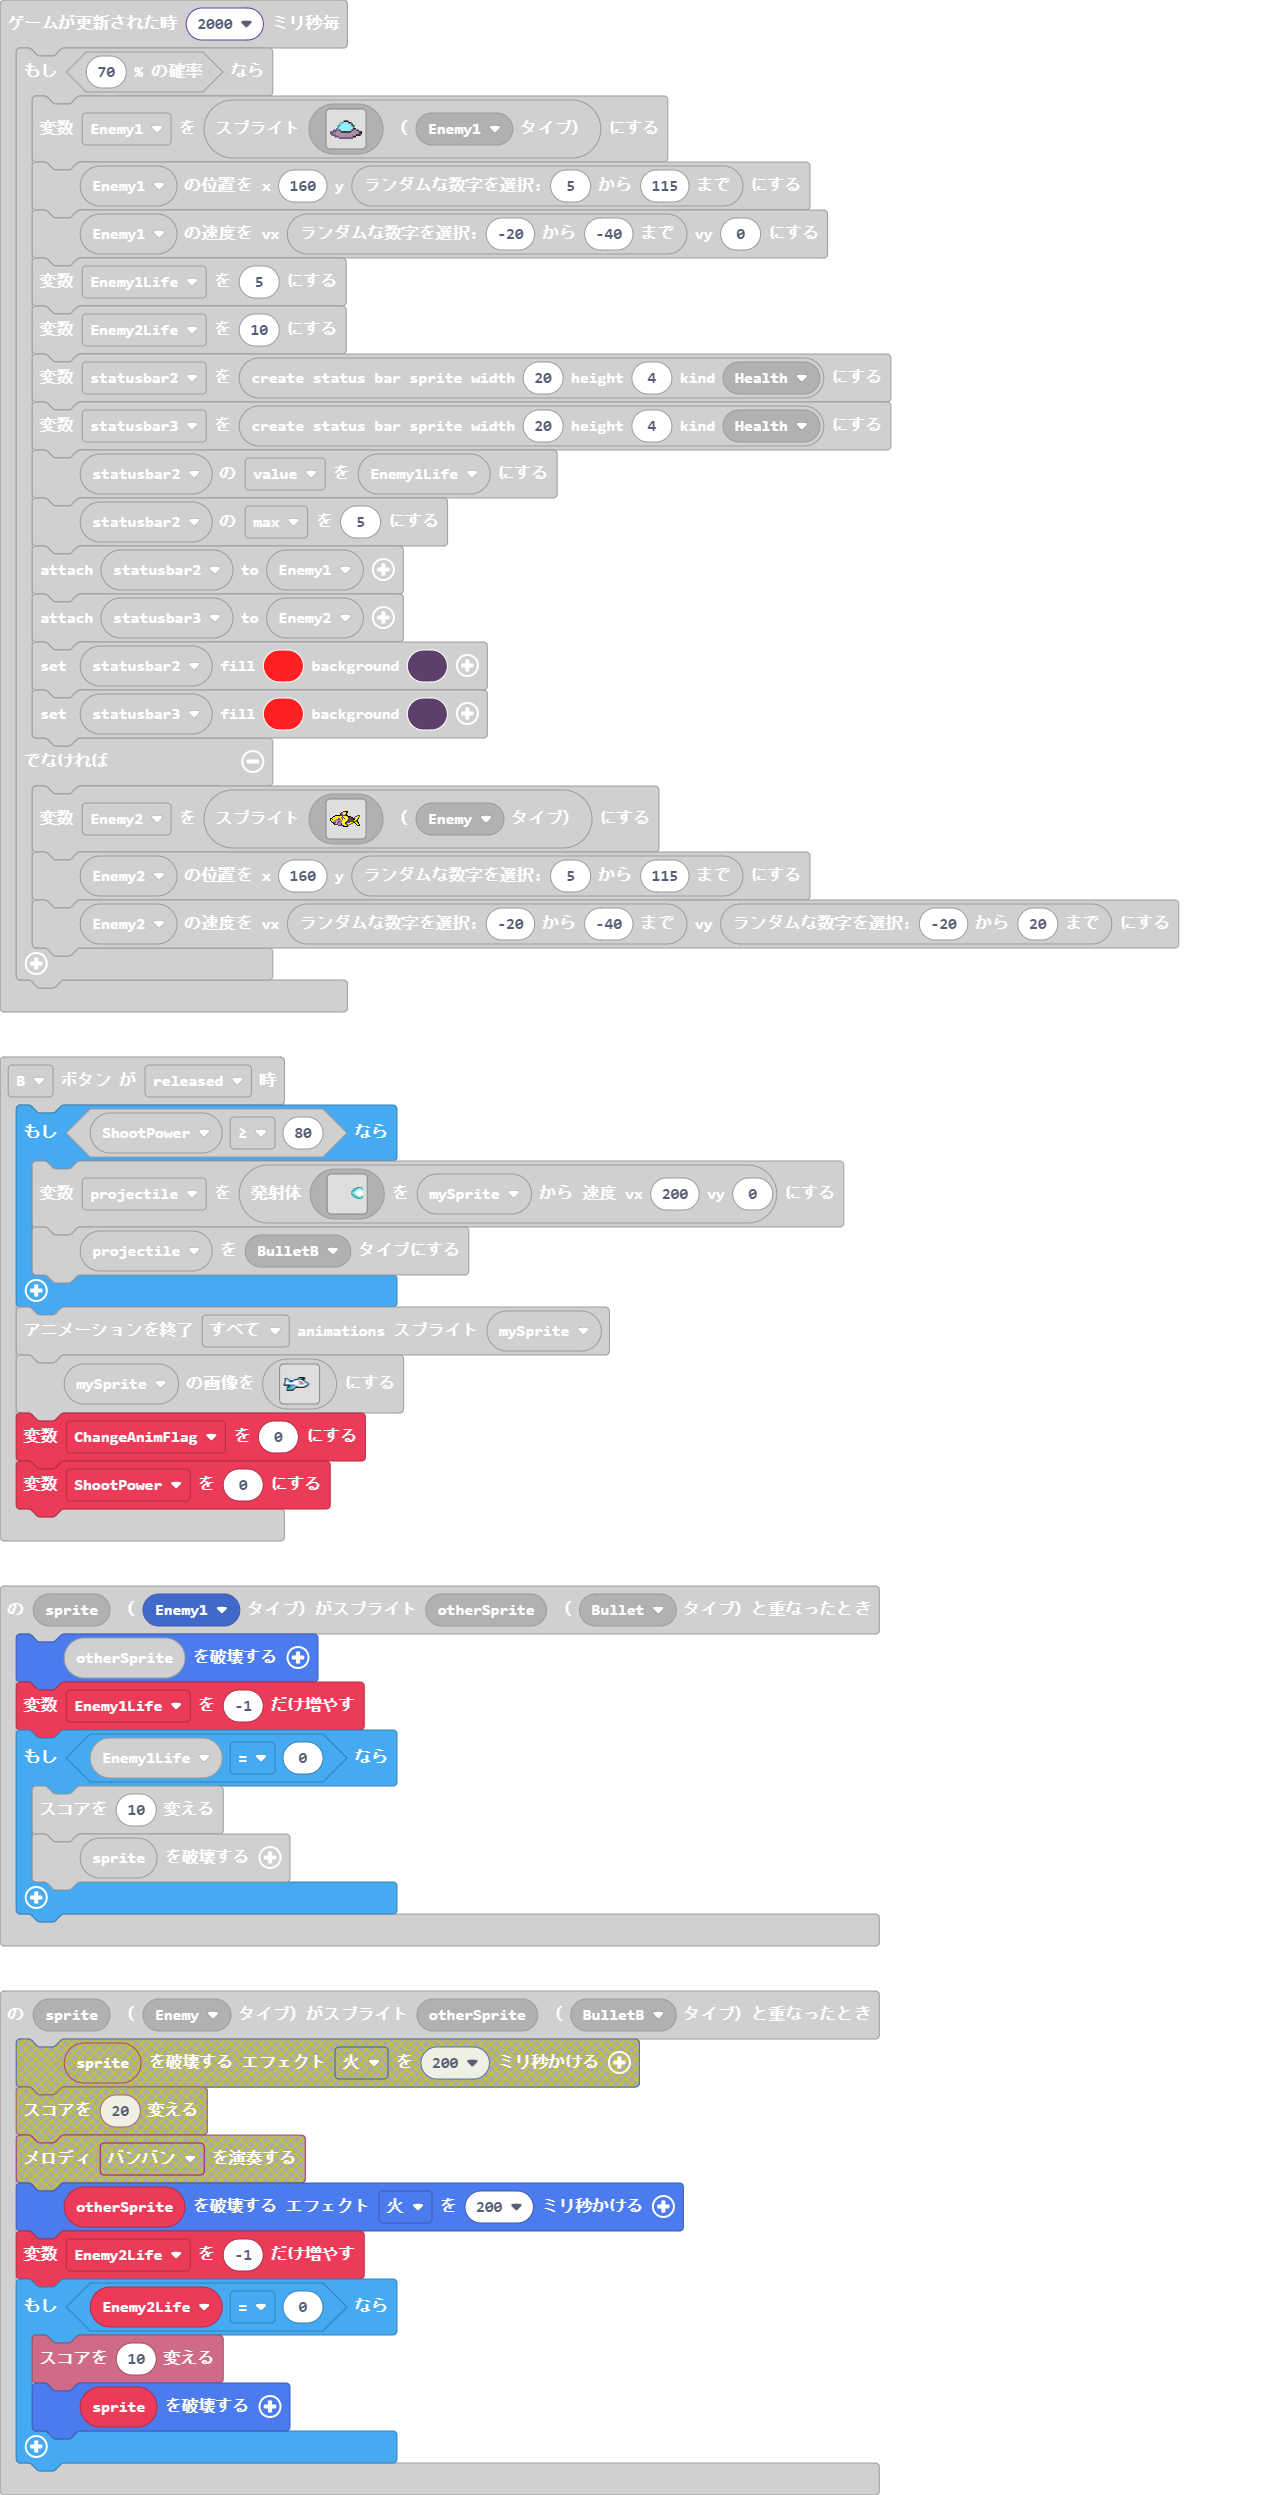
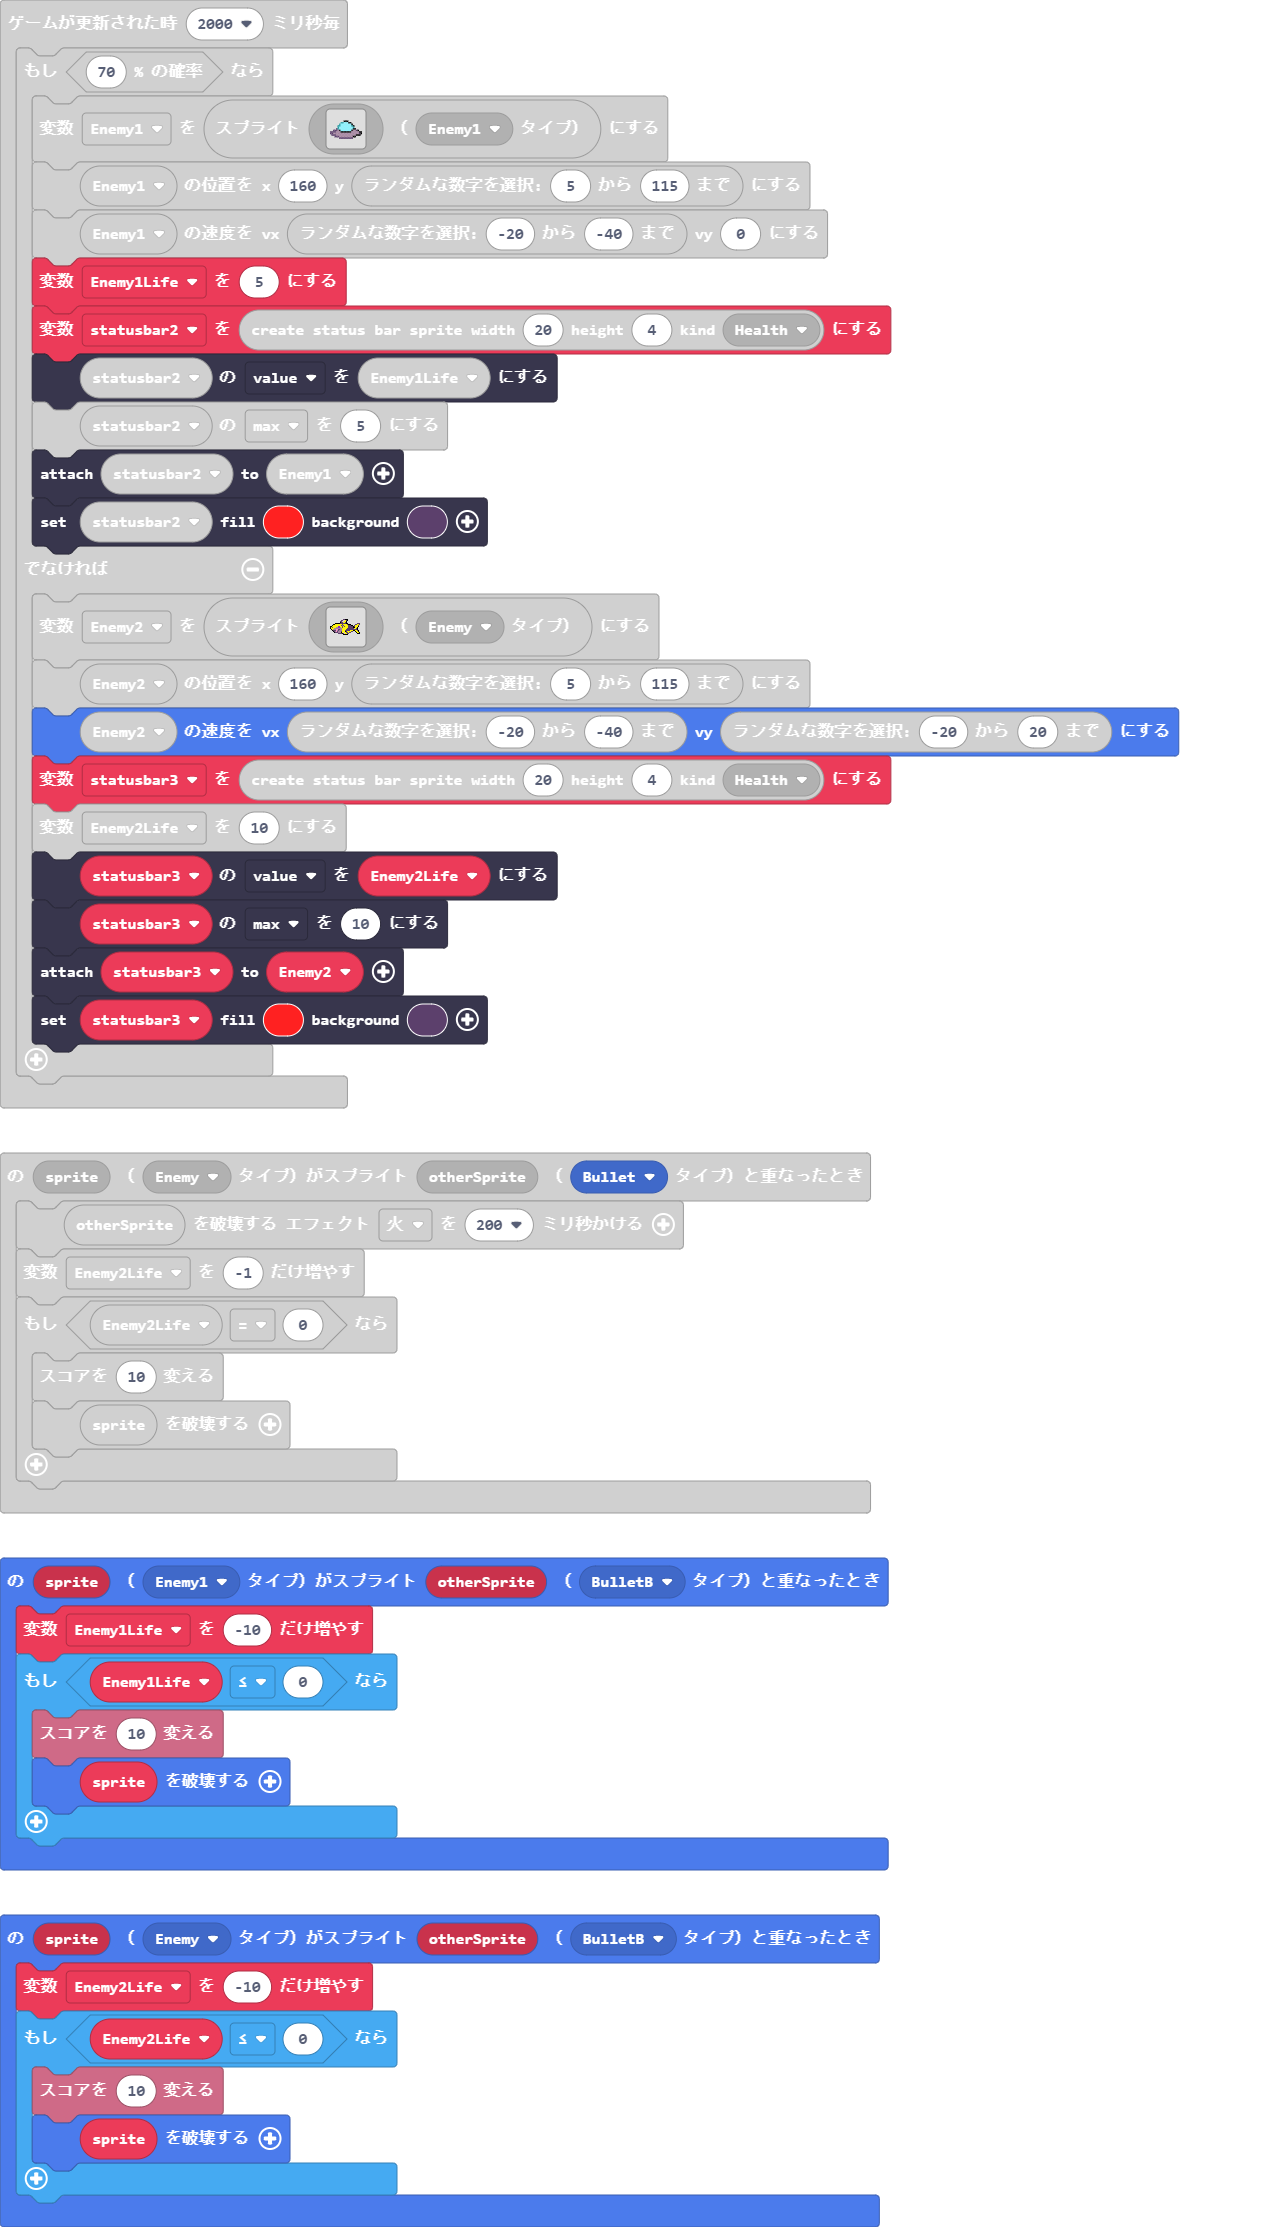
更新 main.blocks, main.ts

diff --git a/main.ts b/main.ts
@@ -3,10 +3,24 @@ namespace SpriteKind {
     export const BulletB = SpriteKind.create()
     export const Enemy1 = SpriteKind.create()
 }
-sprites.onOverlap(SpriteKind.Enemy, SpriteKind.BulletB, function (sprite, otherSprite) {
+sprites.onOverlap(SpriteKind.Enemy, SpriteKind.Bullet, function (sprite, otherSprite) {
     otherSprite.destroy()
     Enemy2Life += -1
     if (Enemy2Life == 0) {
+        info.changeScoreBy(10)
+        sprite.destroy()
+    }
+})
+sprites.onOverlap(SpriteKind.Enemy1, SpriteKind.BulletB, function (sprite, otherSprite) {
+    Enemy1Life += -10
+    if (Enemy1Life <= 0) {
+        info.changeScoreBy(10)
+        sprite.destroy()
+    }
+})
+sprites.onOverlap(SpriteKind.Enemy, SpriteKind.BulletB, function (sprite, otherSprite) {
+    Enemy2Life += -10
+    if (Enemy2Life <= 0) {
         info.changeScoreBy(10)
         sprite.destroy()
     }
@@ -63,13 +77,13 @@ sprites.onOverlap(SpriteKind.Enemy1, SpriteKind.Bullet, function (sprite, otherS
         sprite.destroy()
     }
 })
-let Enemy2: Sprite = null
 let statusbar3: StatusBarSprite = null
+let Enemy2: Sprite = null
 let statusbar2: StatusBarSprite = null
 let Enemy1: Sprite = null
-let Enemy1Life = 0
 let projectile: Sprite = null
 let ShootPower = 0
+let Enemy1Life = 0
 let Enemy2Life = 0
 let ChangeAnimFlag = 0
 let mySprite: Sprite = null
@@ -125,15 +139,11 @@ game.onUpdateInterval(2000, function () {
         Enemy1.setPosition(160, randint(5, 115))
         Enemy1.setVelocity(randint(-20, -40), 0)
         Enemy1Life = 5
-        Enemy2Life = 10
         statusbar2 = statusbars.create(20, 4, StatusBarKind.Health)
-        statusbar3 = statusbars.create(20, 4, StatusBarKind.Health)
         statusbar2.value = Enemy1Life
         statusbar2.max = 5
         statusbar2.attachToSprite(Enemy1)
-        statusbar3.attachToSprite(Enemy2)
         statusbar2.setColor(2, 12)
-        statusbar3.setColor(2, 12)
     } else {
         Enemy2 = sprites.create(img`
             .............ccfff..............
@@ -155,6 +165,12 @@ game.onUpdateInterval(2000, function () {
             `, SpriteKind.Enemy)
         Enemy2.setPosition(160, randint(5, 115))
         Enemy2.setVelocity(randint(-20, -40), randint(-20, 20))
+        statusbar3 = statusbars.create(20, 4, StatusBarKind.Health)
+        Enemy2Life = 10
+        statusbar3.value = Enemy2Life
+        statusbar3.max = 10
+        statusbar3.attachToSprite(Enemy2)
+        statusbar3.setColor(2, 12)
     }
 })
 game.onUpdateInterval(2000, function () {
